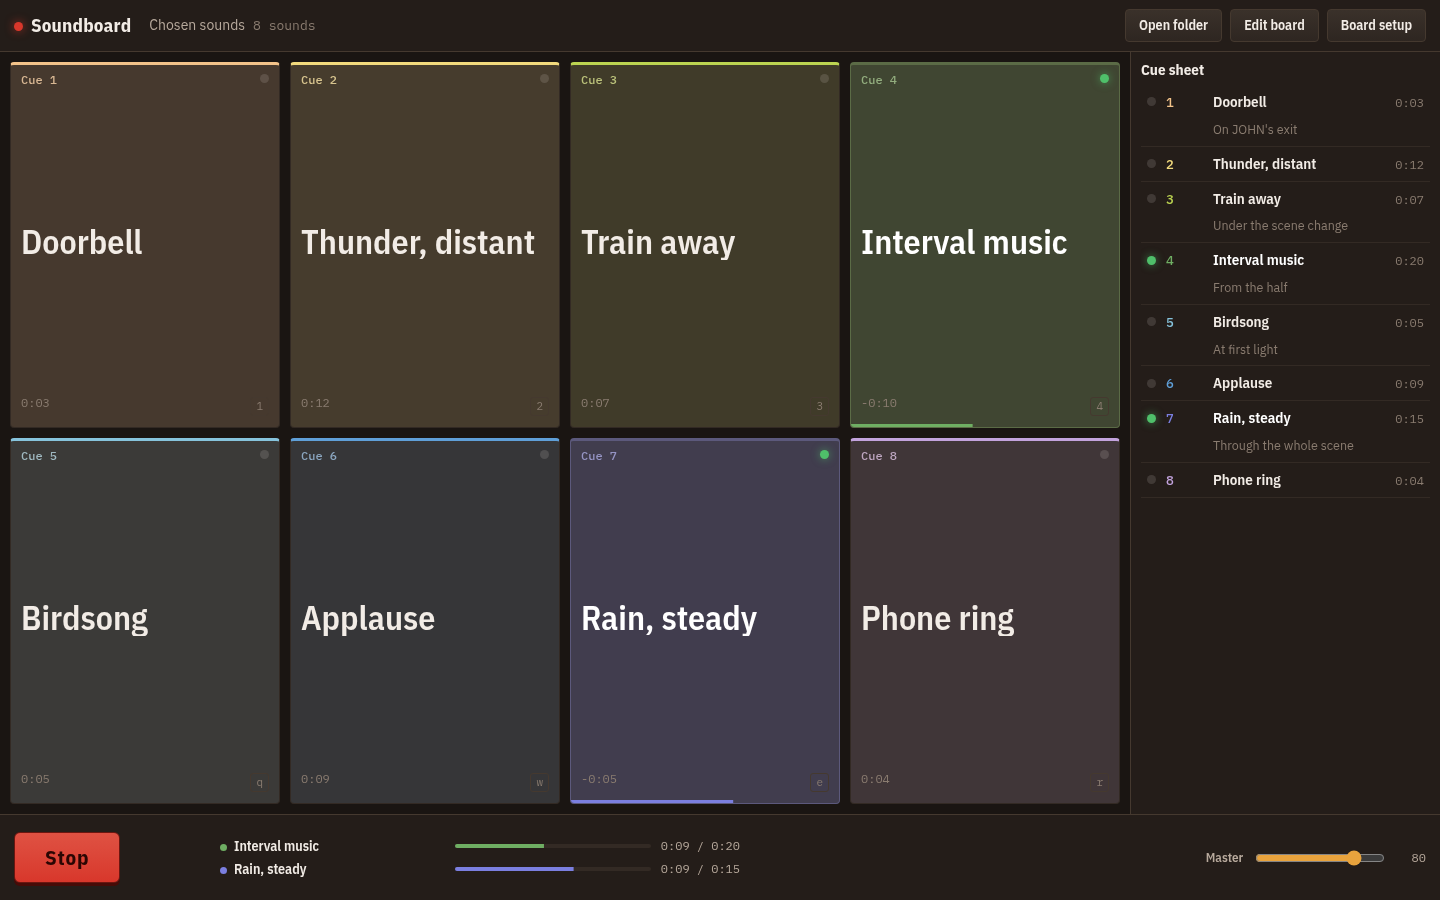
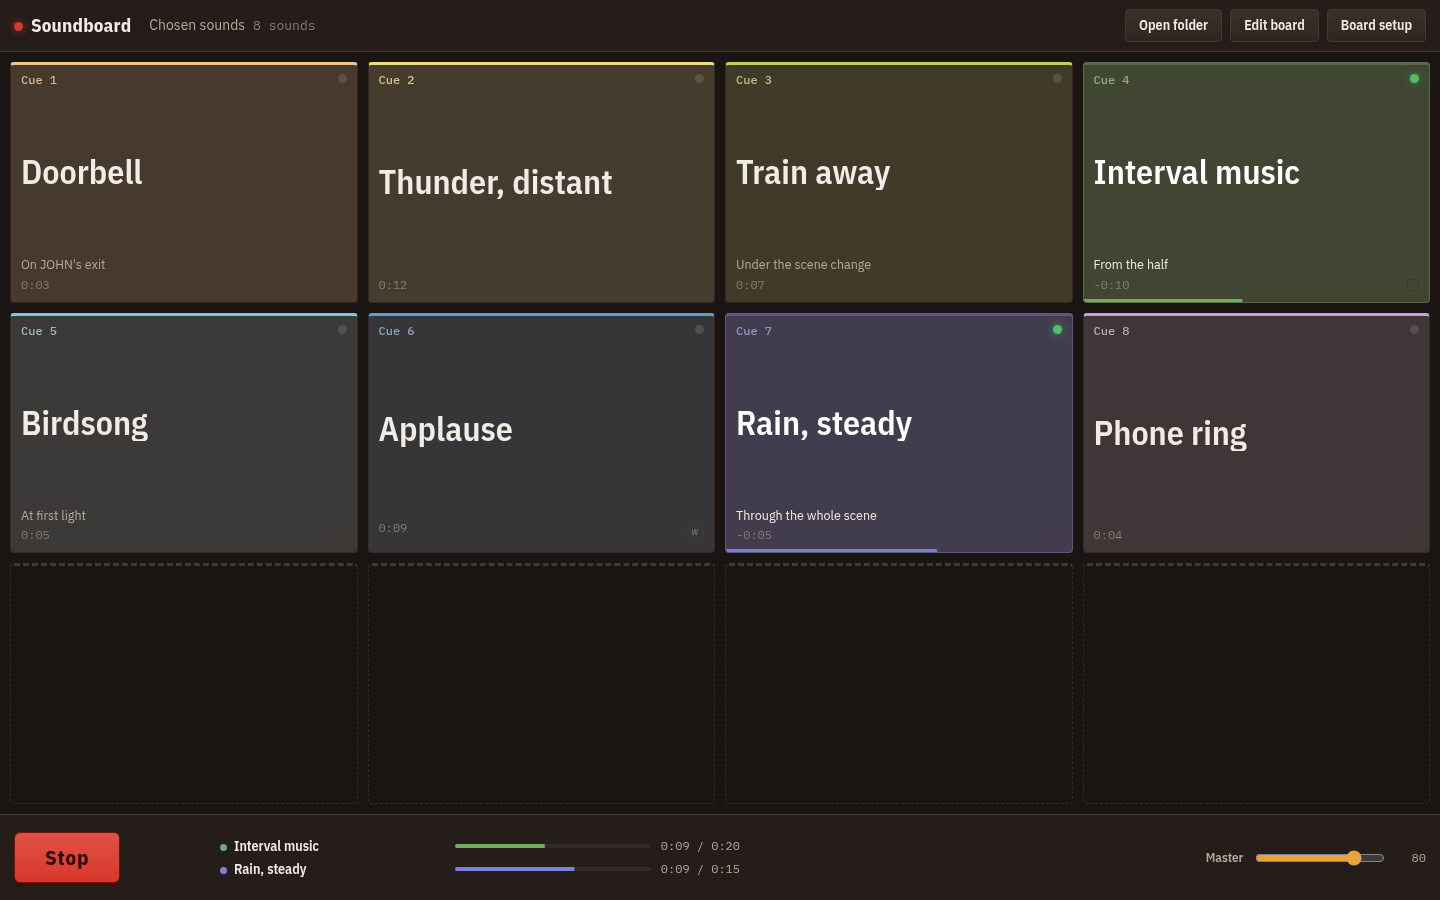
Install the board to stop it asking for the folder
A manifest, icons and a service worker: the board installs, runs in its own
window and works with the network off. The point is the folder — Chrome and
Edge hold on to file-system permission for an installed app, so a reload no
longer means re-granting it. Uninstalled, the one-click reopen stands.

The service worker goes to the network first and falls back to its cache, so
a deploy still lands on the next load.

Also: [hidden] loses to a class that sets display, which left the sounds
panel and its button on screen outside edit mode.

diff --git a/sw.js b/sw.js
@@ -1,0 +1,52 @@
+// Keeps the board working with the network off — a theatre's wifi is not a
+// dependency worth having. Network first, so a deploy is picked up on the next
+// load; the cache answers only when the network does not.
+
+const CACHE = 'soundboard-v1';
+
+const SHELL = [
+  './',
+  './index.html',
+  './css/app.css',
+  './js/app.js',
+  './js/engine.js',
+  './js/library.js',
+  './js/model.js',
+  './js/store.js',
+  './js/editor.js',
+  './js/ui.js',
+  './js/gels.js',
+  './icon.svg',
+  './manifest.webmanifest',
+];
+
+self.addEventListener('install', (e) => {
+  e.waitUntil(
+    caches.open(CACHE)
+      .then((c) => c.addAll(SHELL))
+      .then(() => self.skipWaiting()),
+  );
+});
+
+self.addEventListener('activate', (e) => {
+  e.waitUntil(
+    caches.keys()
+      .then((keys) => Promise.all(keys.filter((k) => k !== CACHE).map((k) => caches.delete(k))))
+      .then(() => self.clients.claim()),
+  );
+});
+
+self.addEventListener('fetch', (e) => {
+  const req = e.request;
+  if (req.method !== 'GET' || new URL(req.url).origin !== self.location.origin) return;
+
+  e.respondWith(
+    fetch(req)
+      .then((res) => {
+        const copy = res.clone();
+        caches.open(CACHE).then((c) => c.put(req, copy)).catch(() => {});
+        return res;
+      })
+      .catch(() => caches.match(req).then((hit) => hit || caches.match('./index.html'))),
+  );
+});

diff --git a/js/app.js b/js/app.js
@@ -53,11 +53,13 @@ class App {
     });
 
     this.wire();
+    setPanel(false);
     // Where a folder cannot be held on to, offer picking the sounds directly:
     // iOS has no folder picker at all.
     refs.btnOpenFiles.hidden = CAN_PERSIST;
     refs.welcomeNote.textContent = CAN_PERSIST
-      ? 'This browser can reopen the same folder next time, with one click to confirm.'
+      ? 'This browser reopens the same folder next time. Install the board from the browser menu '
+        + 'and it can keep that permission instead of asking at every launch.'
       : 'This browser cannot hold on to a folder between visits, so the board asks for it again each launch. '
         + 'The pads themselves are remembered.';
 
@@ -601,6 +603,14 @@ class App {
     clearTimeout(this.saveTimer);
     if (this.board) store.saveBoard(structuredClone(this.board)).catch(() => {});
   }
+}
+
+// Installed, the board keeps working with the network off — and Chrome will
+// hold on to the folder permission for an installed app instead of asking for
+// it on every launch.
+const SECURE = location.protocol === 'https:' || ['localhost', '127.0.0.1'].includes(location.hostname);
+if ('serviceWorker' in navigator && SECURE) {
+  window.addEventListener('load', () => navigator.serviceWorker.register('sw.js').catch(() => {}));
 }
 
 const app = new App();

diff --git a/index.html b/index.html
@@ -7,6 +7,12 @@
 <meta name="description" content="Fire sound cues from a folder on your own machine. A grid of pads with fades, loops and keys. Nothing is uploaded.">
 <meta name="theme-color" content="#1a1512">
 <link rel="icon" href="icon.svg">
+<link rel="apple-touch-icon" href="icon-192.png">
+<link rel="manifest" href="manifest.webmanifest">
+<meta name="mobile-web-app-capable" content="yes">
+<meta name="apple-mobile-web-app-capable" content="yes">
+<meta name="apple-mobile-web-app-status-bar-style" content="black-translucent">
+<meta name="apple-mobile-web-app-title" content="Soundboard">
 <link rel="preconnect" href="https://fonts.googleapis.com">
 <link rel="preconnect" href="https://fonts.gstatic.com" crossorigin>
 <link rel="stylesheet" href="https://fonts.googleapis.com/css2?family=IBM+Plex+Mono:wght@400;500&family=IBM+Plex+Sans+Condensed:wght@400;600;700&family=IBM+Plex+Sans:wght@400;500;600&display=swap">

diff --git a/css/app.css b/css/app.css
@@ -571,7 +571,7 @@ select.field option:checked { background: var(--warn); color: #241a07; }
   .rail__folder { order: 2; flex: 1; }
   .rail__actions { order: 3; width: 100%; margin-left: 0; justify-content: space-between; }
 
-  #btnBook { display: inline-block; }
+  #btnBook:not([hidden]) { display: inline-block; }
 
   /* The transport is taller here, and a toast pinned above it would guess at
      how much taller. Over the pads it never collides with anything. */

diff --git a/README.md b/README.md
@@ -24,6 +24,15 @@ It has to be served over `http://localhost` or `https://` — opening
 `index.html` from the file system will not work, because browsers only hand out
 folder access and ES modules in a secure context.
 
+## Installing it
+
+The board is a progressive web app: **Install** it from the browser menu (Chrome
+and Edge offer it in the address bar; on iOS, Share → Add to Home Screen) and it
+runs in its own window, works with the network off, and — on Chrome and Edge —
+can hold on to permission for the show's folder instead of asking at every
+launch. Without installing, the folder is a single click away each time the page
+is loaded: the browser, not the board, is what insists on asking.
+
 ## Browsers
 
 | Browser | Choosing the sounds | Remembering the folder between launches |
